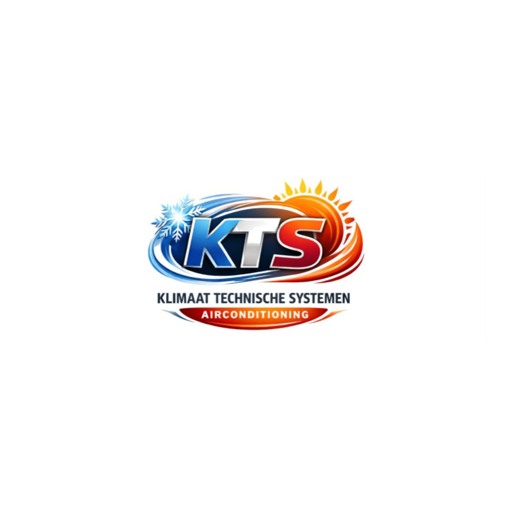
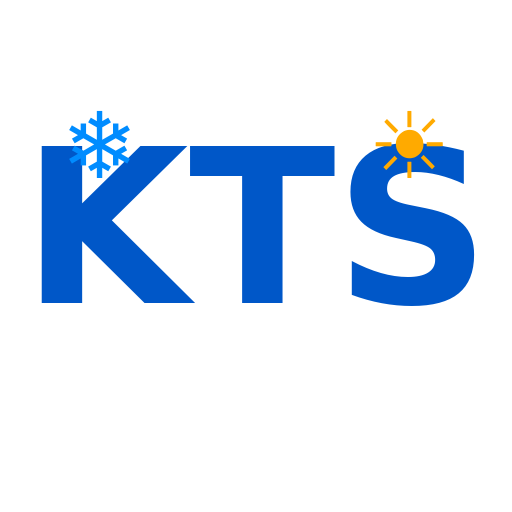
Add files via upload

Changed region(s): [[0.0625, 0.2188, 0.9375, 0.6562]]

diff --git a/app.js b/app.js
@@ -133,7 +133,7 @@ function nav(name, params={}){
 }
 
 function updateFab(){
-  const show = ['dashboard','customers'].includes(route.name);
+  const show = ['dashboard','customers','agenda'].includes(route.name);
   fabAdd.style.display = show ? 'block' : 'none';
   fabAdd.onclick = () => nav('new',{back:route.name});
 }